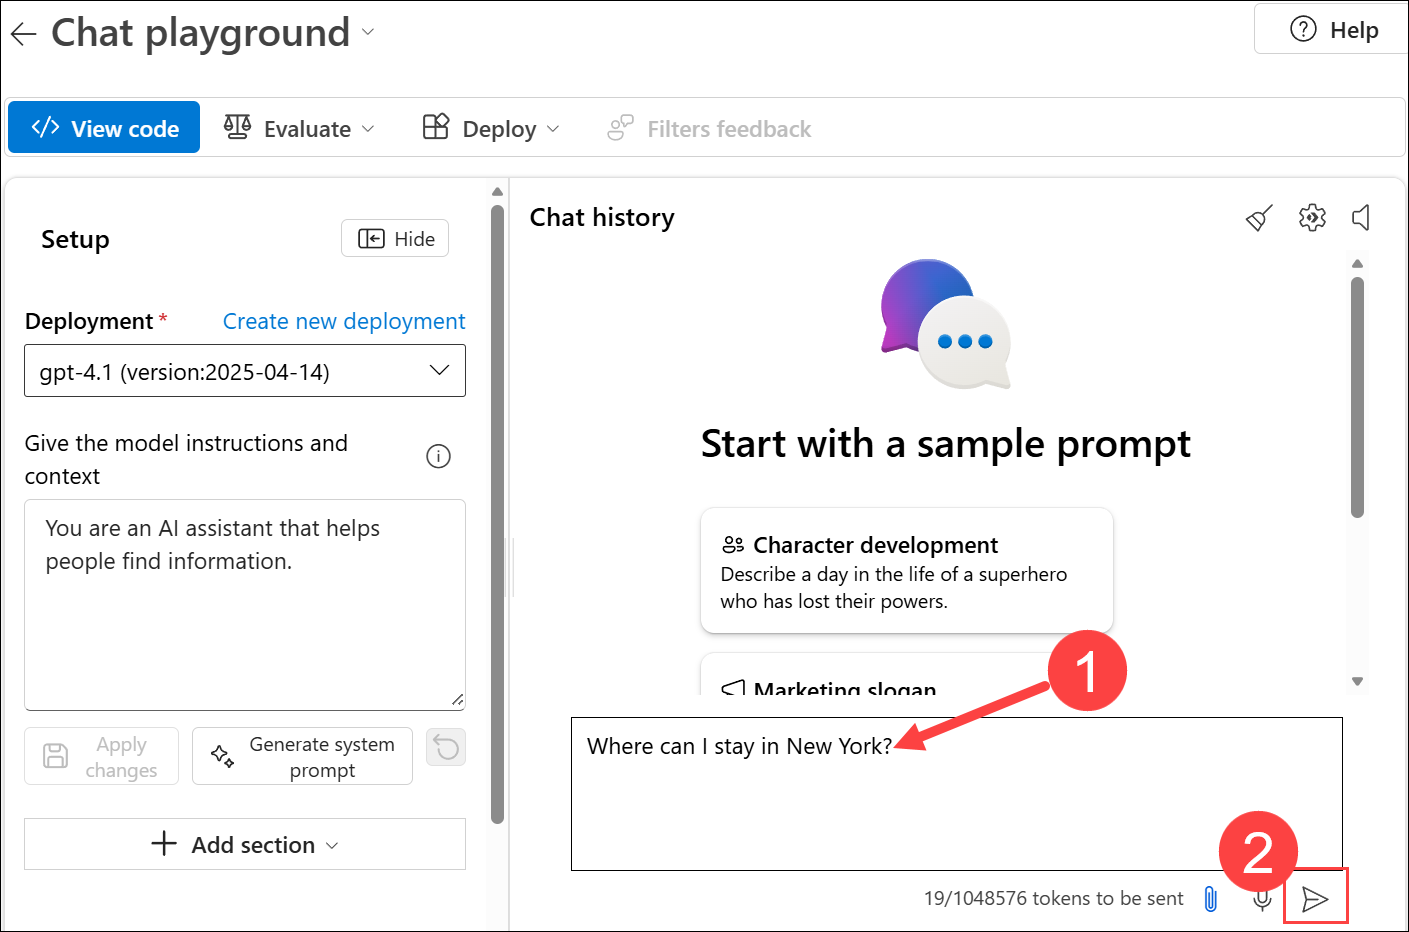
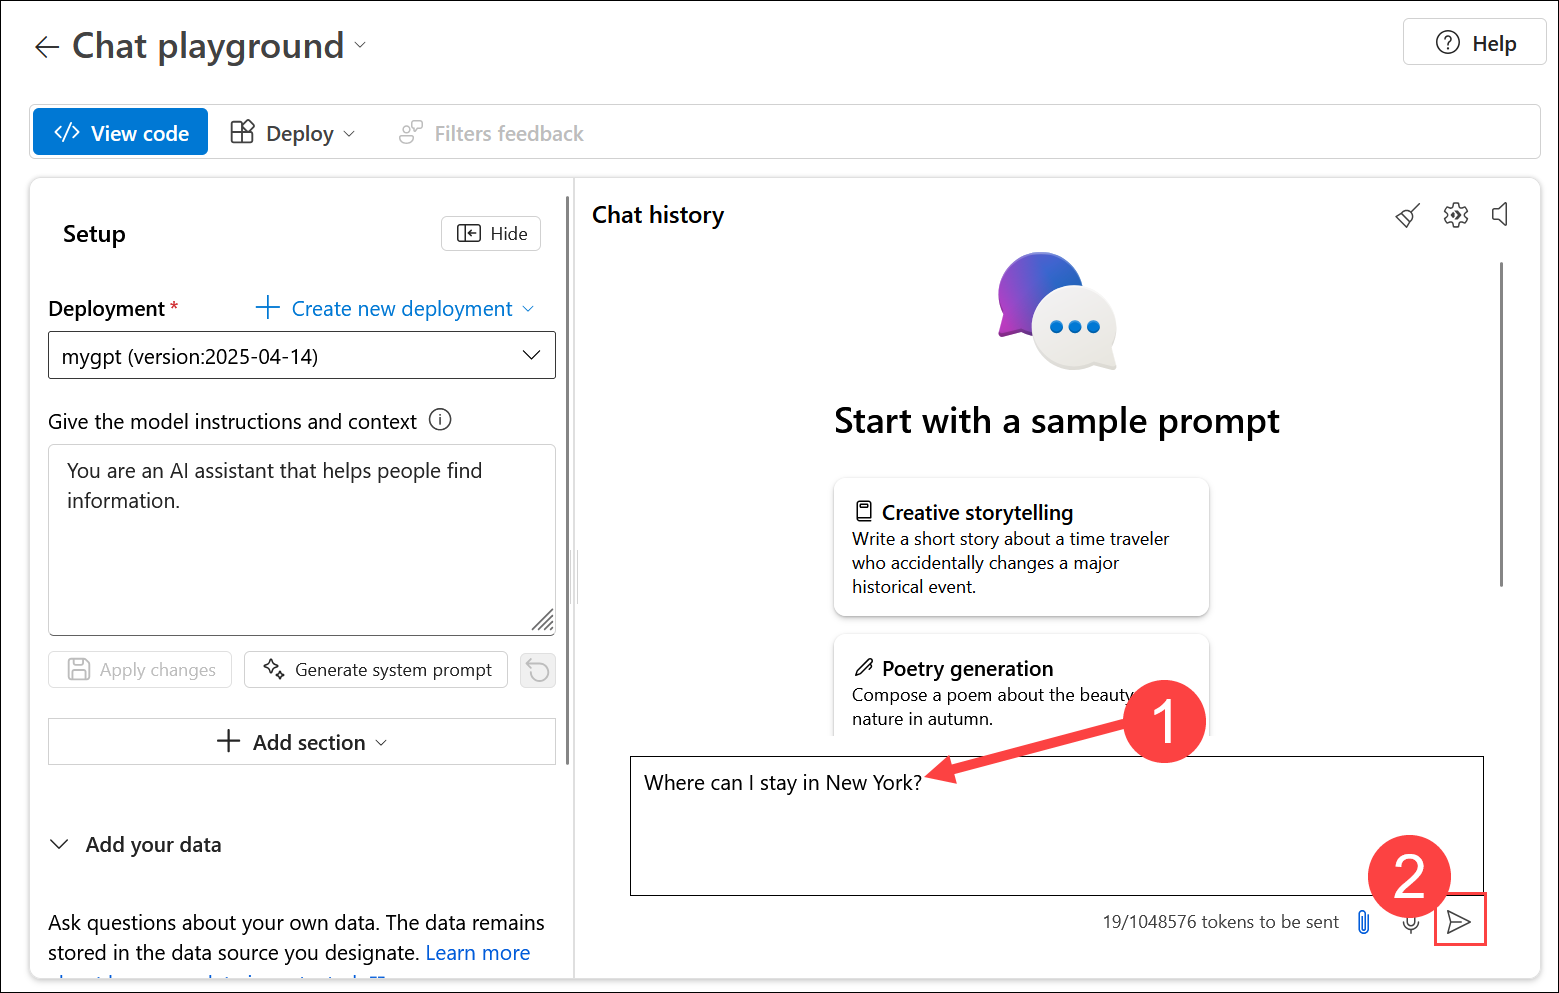
Lab guide changes

diff --git a/Labs/use-your-own-data-custom.md b/Labs/use-your-own-data-custom.md
@@ -54,7 +54,7 @@ To use the Foundry features in this task, you must first create a project that i
 
     - **Subscription**: Use an existing Azure subscription **(2)**
     - **Resource group**: Select **openai-<inject key="DeploymentID" enableCopy="false" /> (3)**
-    - **Region**: Select **East US2 / Sweden Central (4)**
+    - **Region**: Select ****<inject key="Region" enableCopy="false" /> (4)**
     - **Foundry or Azure OpenAI**: Click on **Create new Foundry (5)**, provide name as **aifoundry-<inject key="DeploymentID" enableCopy="false" /> (6)** and click on **ok(7)**
     - Click on **Create (8)**
 
@@ -64,7 +64,7 @@ To use the Foundry features in this task, you must first create a project that i
 
     ![](./media/T1S8.png)
 
-1. Once the project is successfully created, you will be automatically navigated to the overview page of the **aiproject- <inject key="DeploymentID" enableCopy="false" />**.
+1. Once the project is successfully created, you will be automatically navigated to the overview page of the **aiproject-<inject key="DeploymentID" enableCopy="false" />**.
 
     ![](./media/T1S9.png)
 
@@ -121,7 +121,7 @@ In this task, you will configure two models within your Azure Foundry project to
 
 1. Use the following settings in the **Deploy model wizard** and then click on **Deploy**:
 
-    - **Deployment name**: **`textembeded` (1)**
+    - **Deployment name**: **`mytextembedding` (1)**
     - **Deployment type**: **`Global Standard` (2)**
     - In order to edit the Deployment details click on **Customize (3)**.
 
@@ -148,7 +148,7 @@ In this task, we will see how prompt engineering can influence a generative AI m
 
     ![](./media/T5S1.png)
 
-1. On the **Chat playground** page, in the Setup pane, ensure that your **gpt-4.1 (version:2025-04-14) (1)** model deployment is selected. 
+1. On the **Chat playground** page, in the Setup pane, ensure that your **mygpt (version:2025-04-14) (1)** model deployment is selected. 
 
     ![](./media/T5S2.png)
 
@@ -207,73 +207,69 @@ In this task, you will add data to your Azure Foundry project to support your ge
 
     ![](./media/T3S5.png)
 
-1. In the **Add your data** wizard, add a new index with the following settings:
+1. In the **Add your data** wizard, on the **Source data** wizard add the following and Click on **Next (5)**.:
 
-    - **Source data**:
-
-        - **Data source**: **`Upload files` (1)**.
-        - Click on **`Upload`(2)** 
+    - **Data source**: **`Upload files` (1)**.
+    - Click on **`Upload`(2)** 
             
-            ![](./media/T3S6.png)
+        ![](./media/T3S6.png)
 
-        - On the File explorer dialogue, Select the all the files from **`brochures`** folder as data source.
+    - On the File explorer dialogue, Select the all the files from **`brochures`** folder as data source and click on **Open (3)**. You should see all the selected files loaded **(4)**.
 
-            ![](./media/T3S6i.png)
+        ![](./media/T3S6i.png)
 
-        - Click on **`Next`**.
-
-            ![](./media/T3S6ii.png)
+        ![](./media/T3S6ii.png)
             
-    - **Index configuration**:
+1. On the **Index configuration** wizard, add the following:
 
-        - **Select Azure AI Search Service**: **`Create a new Azure AI Search resource`**.
+    - **Select Azure AI Search Service**: **`Create a new Azure AI Search resource`**.
         
-            ![](./media/T3S6iii.png)
+        ![](./media/T3S6iii.png)
 
-            > **Note**: This will redirect you to the Azure Portal
+        > **Note**: This will redirect you to the Azure Portal
 
-        - Provide the following details to create Azure AI Search Service:
+    - Provide the following details to create **Azure AI Search Service**:
 
-            - **Subscription**: Choose the Default Azure subscription **(1)**
-            - **Resource group**: Select **openai-<inject key="DeploymentID" enableCopy="false" /> (2)**
-            - **Service name**: Name the resource name as **aisearch-<inject key="DeploymentID" enableCopy="false" /> (3)**
-            - **Location**: Use the same location as your AI hub resource **(4)**
-            - **Pricing tier**: Make sure **Basic (5)** is selected
-            - Click on **Review + Create (6)** and then **Create**.
+        - **Subscription**: Choose the Default Azure subscription **(1)**
+        - **Resource group**: Select **openai-<inject key="DeploymentID" enableCopy="false" /> (2)**
+        - **Service name**: Name the resource name as **aisearch-<inject key="DeploymentID" enableCopy="false" /> (3)**
+        - **Location**: Use the same location as your AI hub resource **(4)**
+        - **Pricing tier**: Make sure **Basic (5)** is selected
+        - Click on **Review + Create (6)** and then **Create**.
 
             ![](./media/T4S2iii.png)
 
             ![](./media/T4S2iv.png)
 
-1. Wait for the **AI Search** resource to be created. 
+        - Wait for the **AI Search** resource to be created. 
 
-    ![](./media/T4S3.png)
+            ![](./media/T4S3.png)
 
-1. Lets return to the **Create a vector index** wizard in Microsoft Foundry, click on the drop down of **Select Azure AI Search service** and select **Connect other Azure AI Search (1)** resource and adding a connection to the AI Search resource you just created by clicking on **Add Connection (2)**.
+1. Lets return to the **Create a vector index** on **Index Configuration** wizard, click on the drop down of **Select Azure AI Search service** and select **Connect other Azure AI Search (1)** resource then click on **Add Connection (2)** for adding a connection to the AI Search resource you just created.
 
     ![](./media/T3S8.png)
 
     ![](./media/T3S8i.png)
 
-1. Once the AI search connection is established, from the drop down select **aisearch-<inject key="DeploymentID" enableCopy="false" />**
+1. Once the AI search connection is established, from the drop down select **aisearch-<inject key="DeploymentID" enableCopy="false" />** then click on **Next (3)**
 
     - Vector index: **`brochures-index` (1)**
     - Virtual machine: **`Auto select`(2)**
-    - Click on **Next (3)**
 
         ![](./media/T3S9.png)
 
-    - **Search settings**:
-        - **Vector settings**: Make sure the checkbox is checked for **`Add vector search to this search resource`(3)**
-        - **Azure OpenAI connection**: Select the default Azure OpenAI resource for your hub **(4)**.
-        - **Embedding model**: **`text-embedding-ada-002`** **(5)**
-        - Embedding model deployment: **`text-embedding-ada-002`** **(6)**
-        - Click on **Next (7)**
+1. On the **Search settings** wizard set the following setting and click on **Next** **(7)** :
+
+    - **Vector settings**: Make sure the checkbox is checked for **`Add vector search to this search resource`(3)**
+    - **Azure OpenAI connection**: Select the default Azure OpenAI resource for your hub **(4)**.
+    - **Embedding model**: **`text-embedding-ada-002`** **(5)**
+    - Embedding model deployment: **`mytextembedding`** **(6)**
 
         ![](./media/T3S9i.png)
-    - **Review and Create** : Click on **`Create vector index`** **(8)**
 
-        ![](./media/T3S9ii.png)
+1. On the **Review and Create** wizard, Click on **`Create vector index`** **(8)**
+
+    ![](./media/T3S9ii.png)
 
 1. Wait for the indexing process to be completed, which can take a while depending on available compute resources in your subscription.
 
@@ -339,12 +335,13 @@ In this task, we will set up and run a Retrieval-Augmented Generation (RAG) Pyth
     ```
     pip install openai tqdm
     ```
+
 1. In VS Code, open the **`.env`** file, replace the placeholders and then Save the **`.env`** file.:    
     ```
     API_KEY="your_api_key"
     AZURE_OPENAI_ENDPOINT="your_azure_openai_endpoint"
-    MODEL_DEPLOYMENT="gpt-4.1"
-    API_VERSION = "your_azure_openai_version"
+    MODEL_DEPLOYMENT="your gpt-4.1 model deployment name"
+    
     ```
 
      ![](./media/T4S7.png)
@@ -399,17 +396,19 @@ In this task, we will set up and run a Retrieval-Augmented Generation (RAG) Pyth
     ```
     # Get a response
     response = openai_client.responses.create(
-    model=model_deployment,
-    instructions="You are a travel assistant that provides information on travel services available from Margie's Travel. Only answer questions based on the provided travel brochure data.",
-    input=input_text,
-    previous_response_id=last_response_id,
-    tools=[{
-        "type": "file_search",
-        "vector_store_ids": [vector_store.id]
-        }]
-    )
-    print(response.output_text)
-    last_response_id = response.id
+        model=model_deployment,
+        instructions="You are a travel assistant that provides information on travel services available from Margie's Travel. Only answer questions based on the provided travel brochure data.",
+        input=input_text,
+        previous_response_id=last_response_id,
+        tools=[{
+                "type": "file_search",
+                "vector_store_ids": [vector_store.id]
+            }]
+        )
+
+        print(response.output_text)
+        last_response_id = response.id
+
     ```
     ![](./media/T4S16.png)
 
@@ -422,6 +421,7 @@ In this task, we will set up and run a Retrieval-Augmented Generation (RAG) Pyth
 
     # import namespaces
     from openai import OpenAI
+
 
     def main(): 
         # Clear the console
@@ -443,18 +443,23 @@ In this task, we will set up and run a Retrieval-Augmented Generation (RAG) Pyth
             # Create vector store and upload files
             print("Creating vector store and uploading files...")
             vector_store = openai_client.vector_stores.create(
-            name="travel-brochures"
+                name="travel-brochures"
             )
+
             file_streams = [open(f, "rb") for f in glob.glob("brochures/*.pdf")]
+
             if not file_streams:
                 print("No PDF files found in the brochures folder!")
                 return
+
             file_batch = openai_client.vector_stores.file_batches.upload_and_poll(
                 vector_store_id=vector_store.id,
                 files=file_streams
             )
+
             for f in file_streams:
                 f.close()
+
             print(f"Vector store created with {file_batch.file_counts.completed} files.")
 
             # Track conversation state
@@ -463,8 +468,10 @@ In this task, we will set up and run a Retrieval-Augmented Generation (RAG) Pyth
             # Loop until the user wants to quit
             while True:
                 input_text = input('\nEnter a question (or type "quit" to exit): ')
+
                 if input_text.lower() == "quit":
                     break
+
                 if len(input_text) == 0:
                     print("Please enter a question.")
                     continue
@@ -480,15 +487,16 @@ In this task, we will set up and run a Retrieval-Augmented Generation (RAG) Pyth
                         "vector_store_ids": [vector_store.id]
                     }]
                 )
+
                 print(response.output_text)
                 last_response_id = response.id
-                
+
         except Exception as ex:
             print(ex)
 
+
     if __name__ == '__main__': 
         main()
-
     ```
     > **Note**: Please verify for the indundation errors before running the app.
 
@@ -507,6 +515,8 @@ In this task, we will run and interact with your RAG (Retrieval-Augmented Genera
     ```
     Where should I go on vacation to see architecture?
     ```
+    ![](./media/T6S2.png)
+
 
 1. Note that the response should include information grounded in the travel brochure data, with references to the source documents.
 
